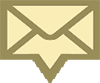
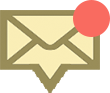
halp why am i destroying the api requests

diff --git a/Ubiquity/HomeMapViewController.m b/Ubiquity/HomeMapViewController.m
@@ -14,6 +14,7 @@
 #import "OptionsViewController.h"
 #import "NoteViewController.h"
 #import "LocationController.h"
+#import "GMSMarkerWithCount.h"
 #import <math.h>
 
 @interface HomeMapViewController ()
@@ -119,7 +120,8 @@
             NSMutableArray *allNotes = [[NSMutableArray alloc] init];
             NSMutableArray *notesForMarker = [[NSMutableArray alloc] init];
             NSMutableArray *markers = [[NSMutableArray alloc] init];
-            
+            GMSMarkerWithCount *marker = nil;
+
             for (PFObject *object in objects) {
                 NSLog(@"%@", object.objectId);
                 PFGeoPoint *gp = [object objectForKey: @"location"];
@@ -129,8 +131,8 @@
                         [allNotes addObject: [notesForMarker copy]];
                     [notesForMarker removeAllObjects];
                     CLLocationCoordinate2D pinLocation = CLLocationCoordinate2DMake (gp.latitude, gp.longitude);
-                    GMSMarker *marker = [GMSMarker markerWithPosition: pinLocation];
-                    marker.icon = [UIImage imageNamed: @"UnreadNote"];
+                    marker = [GMSMarkerWithCount markerWithPosition: pinLocation];
+                  //  marker.icon = [UIImage imageNamed: @"UnreadNote"];
                     marker.animated = YES;
                     marker.map = _hmv.map;
                     zoomLevel = _hmv.map.camera.zoom;
@@ -140,6 +142,7 @@
                     [markers addObject: marker];
                     self.markerNotearrayDict = [[NSMutableDictionary alloc] initWithObjects: @[markers, allNotes] forKeys:@[@"markers", @"arrayOfNotes"]];
                 }
+                [marker updateIcon];
                 [notesForMarker addObject:object];
                 
                 current = gp;

diff --git a/Ubiquity/GMSMarkerWithCount.m b/Ubiquity/GMSMarkerWithCount.m
@@ -1,0 +1,62 @@
+//
+//  GMSMarkerWithCount.m
+//  Ubiquity
+//
+//  Created by Winnie Wu on 8/15/13.
+//  Copyright (c) 2013 Team Ubi. All rights reserved.
+//
+
+#import "GMSMarkerWithCount.h"
+
+@implementation GMSMarkerWithCount
+
+- (id) init
+{
+    self = [super init];
+    if (self)
+    {
+        self.count = 0;
+        super.icon = self.icon;
+        self.animated = super.animated;
+    }
+    return self;
+}
+
+
+
+- (UIImage *) icon
+{
+    UIImage *baseImage = [UIImage imageNamed:@"UnreadNote"];
+    NSString *text = [NSString stringWithFormat:@"%d", self.count];
+    CGPoint drawingPoint = CGPointMake(baseImage.size.width*30/40, baseImage.size.height*1/20);
+    UIImage *returnImage = [self drawText: text inImage: baseImage atPoint: drawingPoint];
+    
+    
+    
+    return returnImage;
+}
+
+- (void) updateIcon
+{
+    self.count++;
+    super.icon = self.icon;
+}
+
+- (UIImage*) drawText:(NSString*) text
+             inImage:(UIImage*)  image
+             atPoint:(CGPoint)   point
+{
+    
+    UIFont *font = [UIFont boldSystemFontOfSize:10];
+    UIGraphicsBeginImageContextWithOptions(image.size, NO, 0.0);
+    [image drawInRect:CGRectMake(0,0,image.size.width,image.size.height)];
+    CGRect rect = CGRectMake(point.x, point.y, image.size.width, image.size.height);
+    [[UIColor whiteColor] set];
+    [text drawInRect:CGRectIntegral(rect) withFont:font];
+    UIImage *newImage = UIGraphicsGetImageFromCurrentImageContext();
+    UIGraphicsEndImageContext();
+    
+    return newImage;
+}
+
+@end

diff --git a/Ubiquity/GMSMarkerWithCount.h b/Ubiquity/GMSMarkerWithCount.h
@@ -1,0 +1,16 @@
+//
+//  GMSMarkerWithCount.h
+//  Ubiquity
+//
+//  Created by Winnie Wu on 8/15/13.
+//  Copyright (c) 2013 Team Ubi. All rights reserved.
+//
+
+#import <GoogleMaps/GoogleMaps.h>
+
+@interface GMSMarkerWithCount : GMSMarker
+
+@property int count;
+- (UIImage *) icon;
+- (void) updateIcon;
+@end
